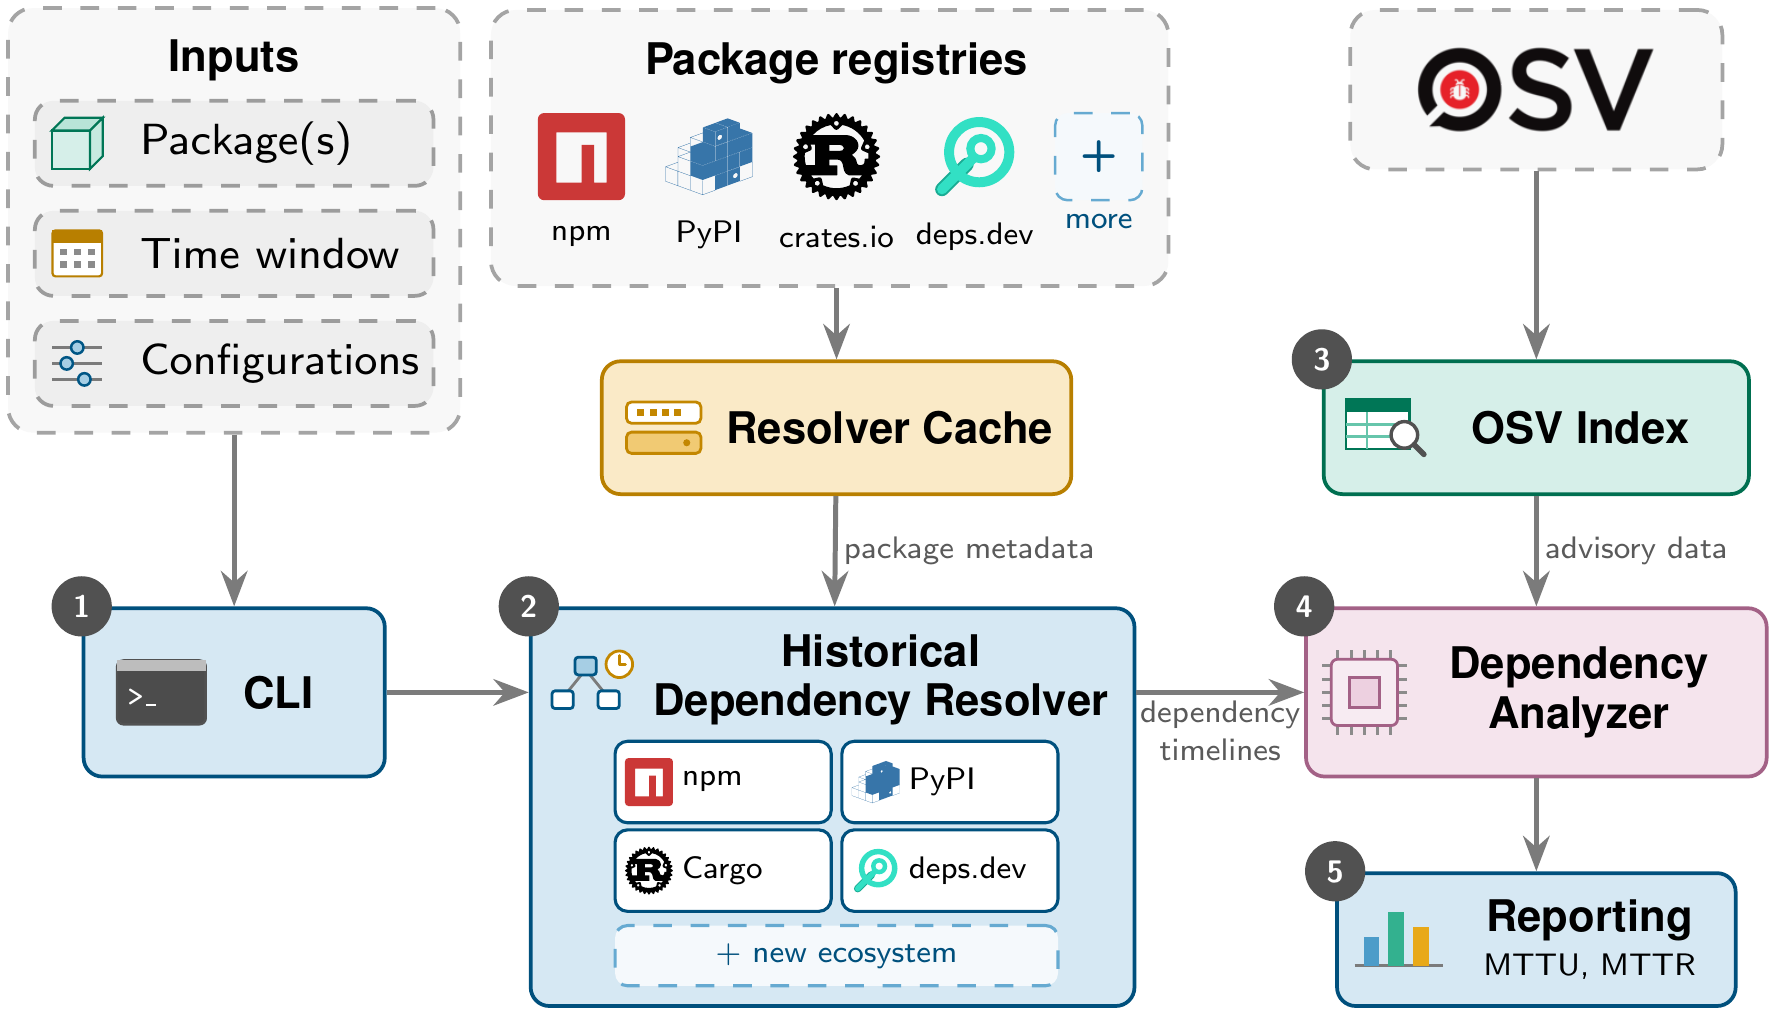
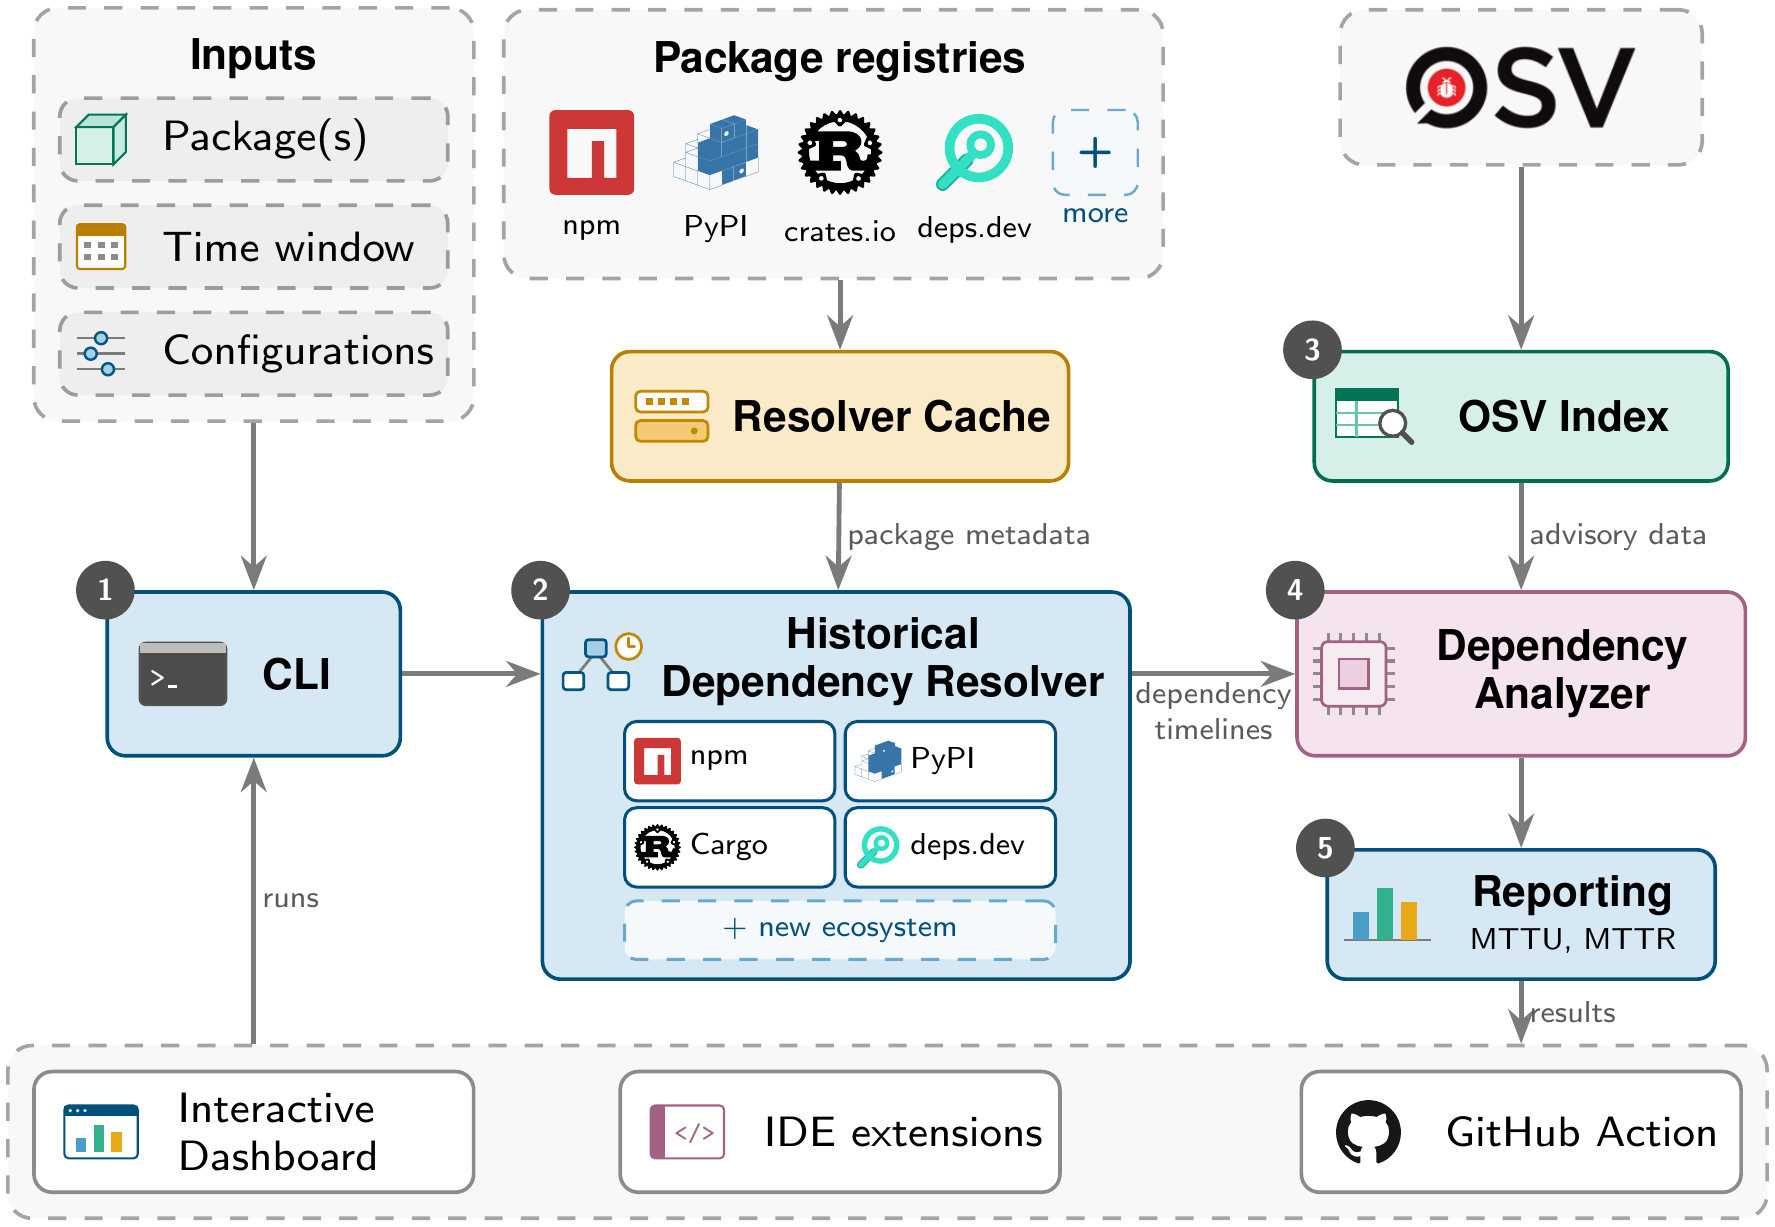
Make the homepage match the framing of the paper
The architecture figure shows the interactive dashboard, the IDE
extensions, and the GitHub Action, which run the CLI. The Overview states
the gap (a research prototype for a fixed set of packages) and the
workflow integration. The Design Goals section goes, as in the paper.
The page names the web dashboard "interactive dashboard", the Validation
section states that all front ends give the same values, and Who Can Use
It adds development teams in CI.

diff --git a/webapp/site/index.html b/webapp/site/index.html
@@ -249,9 +249,9 @@
   <section class="hero teaser">
     <div class="container is-max-desktop">
       <div class="hero-body has-text-centered">
-        <img src="static/images/architecture.png" alt="Architecture of MTTX: inputs, CLI, historical dependency resolver, OSV index, dependency analyzer, and reporting" loading="lazy" style="max-width: 760px; width: 100%;">
+        <img src="static/images/architecture.png" alt="Architecture of MTTX: inputs, CLI, historical dependency resolver, OSV index, dependency analyzer, and reporting, with the interactive dashboard, the IDE extensions, and the GitHub Action, which run the CLI" loading="lazy" style="max-width: 760px; width: 100%;">
         <p class="figure-caption">
-          Architecture of MTTX. Numbers give the order of the steps. The resolver resolves each version constraint as of a past date, and the dashed slots show where a new ecosystem plugs in.
+          Architecture of MTTX. Numbers give the order of the steps. The resolver resolves each version constraint as of a past date, and the dashed slots show where a new ecosystem plugs in. At the bottom, the interactive dashboard, the IDE extensions, and the GitHub Action run the CLI and show its results.
         </p>
       </div>
     </div>
@@ -265,16 +265,17 @@
           <h2 class="title is-3">Overview</h2>
           <div class="content has-text-justified">
             <p>
-              Software composition analysis tools tell you whether a project is out of date or vulnerable <em>now</em>.
-              They do not tell you how the project behaved <em>over time</em>.
-              MTTX fills this gap.
+              Developers often choose a dependency by its GitHub stars and download counts, but these signals are cheap and easy to fake.
+              MTTX gives a signal of observed behavior instead: how quickly the developers of a package responded to new dependency releases and to security fixes over time.
               It computes two metrics for the direct dependencies of a package in npm, PyPI, or Cargo:
               <strong>Mean Time To Update (MTTU)</strong>, how long the dependencies stay behind their newest version, and
               <strong>Mean Time To Remediate (MTTR)</strong>, how long the dependencies keep a known vulnerability after a fix is available.
             </p>
             <p>
-              The tool resolves every version constraint as of a past date, so it never uses data from the future.
-              It can compute the metrics for one time window or at every past release of a package, and it runs in batches over thousands of packages.
+              Prior work computed these metrics with a research prototype for a fixed set of packages.
+              MTTX computes them for any package and time window, with each version constraint resolved as of a past date, so it never uses data from the future.
+              It brings the values to each point where developers decide on a dependency: an interactive dashboard to select one, an IDE extension while they code, and a GitHub Action in CI.
+              All of them run one CLI, which researchers can also run in batches over thousands of packages.
             </p>
           </div>
         </div>
@@ -478,33 +479,6 @@
   <script type="module" src="static/js/webapp.js"></script>
   <script type="module" src="static/js/pipeline.js"></script>
 
-  <!-- Design goals -->
-  <section class="section">
-    <div class="container is-max-desktop">
-      <h2 class="title is-3 has-text-centered">Design Goals</h2>
-      <div class="columns">
-        <div class="column">
-          <div class="box goal-card">
-            <h3 class="title is-5"><i class="fas fa-check-circle"></i>&nbsp; Correctness</h3>
-            <p>Every value is right, and a reader can check it. Constraints resolve as of each past date, MTTR counts a vulnerability only after its fix is published, and optional worksheets list every interval.</p>
-          </div>
-        </div>
-        <div class="column">
-          <div class="box goal-card scal">
-            <h3 class="title is-5"><i class="fas fa-tachometer-alt"></i>&nbsp; Scalability</h3>
-            <p>A study can analyze thousands of packages over their full histories. Batches run in parallel workers, a cache stores registry data, the OSV index is a lookup in memory, and <code>--resume</code> continues after a crash.</p>
-          </div>
-        </div>
-        <div class="column">
-          <div class="box goal-card ext">
-            <h3 class="title is-5"><i class="fas fa-puzzle-piece"></i>&nbsp; Extensibility</h3>
-            <p>Researchers can add ecosystems, data sources, and analysis choices. Every resolver implements one <code>PackageResolver</code> protocol, and every analysis choice is a command-line option.</p>
-          </div>
-        </div>
-      </div>
-    </div>
-  </section>
-
   <!-- Use MTTX in your workflow: one stage for each place where a dependency decision happens.
        pipeline.js switches the panels and copies the commands. The image tag and digest of the
        Reproduce panel are the ones in action/image.json (site.test.mjs checks that they match). -->
@@ -522,7 +496,7 @@
           <span class="pipeline-step">1</span>
           <span class="pipeline-icon"><i class="fas fa-search" aria-hidden="true"></i></span>
           <strong>Select</strong>
-          <small>Web dashboard</small>
+          <small>Interactive dashboard</small>
         </button>
         <span class="pipeline-arrow" aria-hidden="true"><i class="fas fa-chevron-right"></i></span>
         <button class="pipeline-stage" type="button" role="tab" id="stage-tab-develop" aria-controls="stage-develop" aria-selected="false" tabindex="-1">
@@ -549,7 +523,7 @@
       <div class="pipeline-panel" role="tabpanel" id="stage-select" aria-labelledby="stage-tab-select">
         <h3 class="title is-5">Compare candidate packages before you add one</h3>
         <p>
-          The web dashboard on this page compares up to five packages from one ecosystem, with no installation.
+          The interactive dashboard on this page compares up to five packages from one ecosystem, with no installation.
           Our server runs the Tool with deps.dev data and shows a bar chart, a table, and a plain-English Explanation of each value.
           Per-release mode adds line charts that show how MTTU and MTTR changed at each release.
         </p>
@@ -696,7 +670,7 @@ dependency-metrics --input-csv input.csv --workers 8 --output-dir output</code><
   ghcr.io/imranur-rahman/mttx:0.2.1-osv-2026-10-23@sha256:3d528b998884f985e484b1da0cceb1219930c1d38625e18bb9ed9f69bce5c2eb \
   --ecosystem npm --package express \
   --start-date 2024-01-01 --end-date 2025-12-31 --depsdev --json</code></pre>
-            <p class="is-size-7">Output (shortened). The values equal the sample Comparison of the web dashboard:</p>
+            <p class="is-size-7">Output (shortened). The values equal the sample Comparison of the interactive dashboard:</p>
             <pre class="cli"><code>{"package": "express", "data_source": "depsdev",
  "summary": {"mttu": 120.31748718584655, "mttr": 3.0759126984126985,
              "num_dependencies": 28, "status": "ok"}}</code></pre>
@@ -705,7 +679,7 @@ dependency-metrics --input-csv input.csv --workers 8 --output-dir output</code><
         <details class="more-options">
           <summary>More container options</summary>
           <div class="content">
-            <p>Each command reads the package data from deps.dev (<code>--depsdev</code>), as the web dashboard and the GitHub Action do, so that the values agree. Without <code>--depsdev</code>, the Tool reads the registry of each ecosystem.</p>
+            <p>Each command reads the package data from deps.dev (<code>--depsdev</code>), as the interactive dashboard and the GitHub Action do, so that the values agree. Without <code>--depsdev</code>, the Tool reads the registry of each ecosystem.</p>
             <p>Pull the image once, so that later runs start at once:</p>
             <pre class="cli"><code>docker pull ghcr.io/imranur-rahman/mttx:0.2.1-osv-2026-10-23</code></pre>
             <p>On Linux, add <code>--user</code>, so that the result files in your folder belong to you and not to root:</p>
@@ -762,6 +736,7 @@ docker run --rm -v "$PWD:/data" ghcr.io/imranur-rahman/mttx:0.2.1-osv-2026-10-23
         <p>
           The test types follow research on testing scientific software; <a href="https://github.com/imranur-rahman/dependency-update-metrics/blob/main/TESTING.md" target="_blank" rel="noopener">TESTING.md</a> maps each type to its tests.
           CI runs the suite on Ubuntu, macOS, and Windows with Python 3.10&ndash;3.12.
+          All front ends run the same CLI, so they give the same values: for <code>express</code> (npm, 2024&ndash;2025, deps.dev), the interactive dashboard, the container image, and the GitHub Action all report an MTTU of 120.32 days and an MTTR of 3.08 days.
         </p>
       </div>
     </div>
@@ -774,7 +749,8 @@ docker run --rm -v "$PWD:/data" ghcr.io/imranur-rahman/mttx:0.2.1-osv-2026-10-23
       <div class="content">
         <ul>
           <li><strong>Researchers</strong> who study technical lag, software supply chains, or maintainer behavior can compute MTTU and MTTR for thousands of packages and get a full time series per package.</li>
-          <li><strong>Developers</strong> can compare how promptly candidate libraries keep their own dependencies current and patched.</li>
+          <li><strong>Developers</strong> can compare how promptly candidate libraries keep their own dependencies current and patched, in the interactive dashboard before they choose one and in their IDE while they code.</li>
+          <li><strong>Development teams</strong> can report MTTU and MTTR in CI with the GitHub Action, and review the dependencies that each pull request adds.</li>
           <li><strong>Security teams</strong> can run a batch over their portfolio to find the projects that lag behind available fixes.</li>
           <li><strong>Builders of security metrics</strong>, such as the OpenSSF Scorecard, can use MTTU and MTTR as signals of maintenance.</li>
         </ul>
